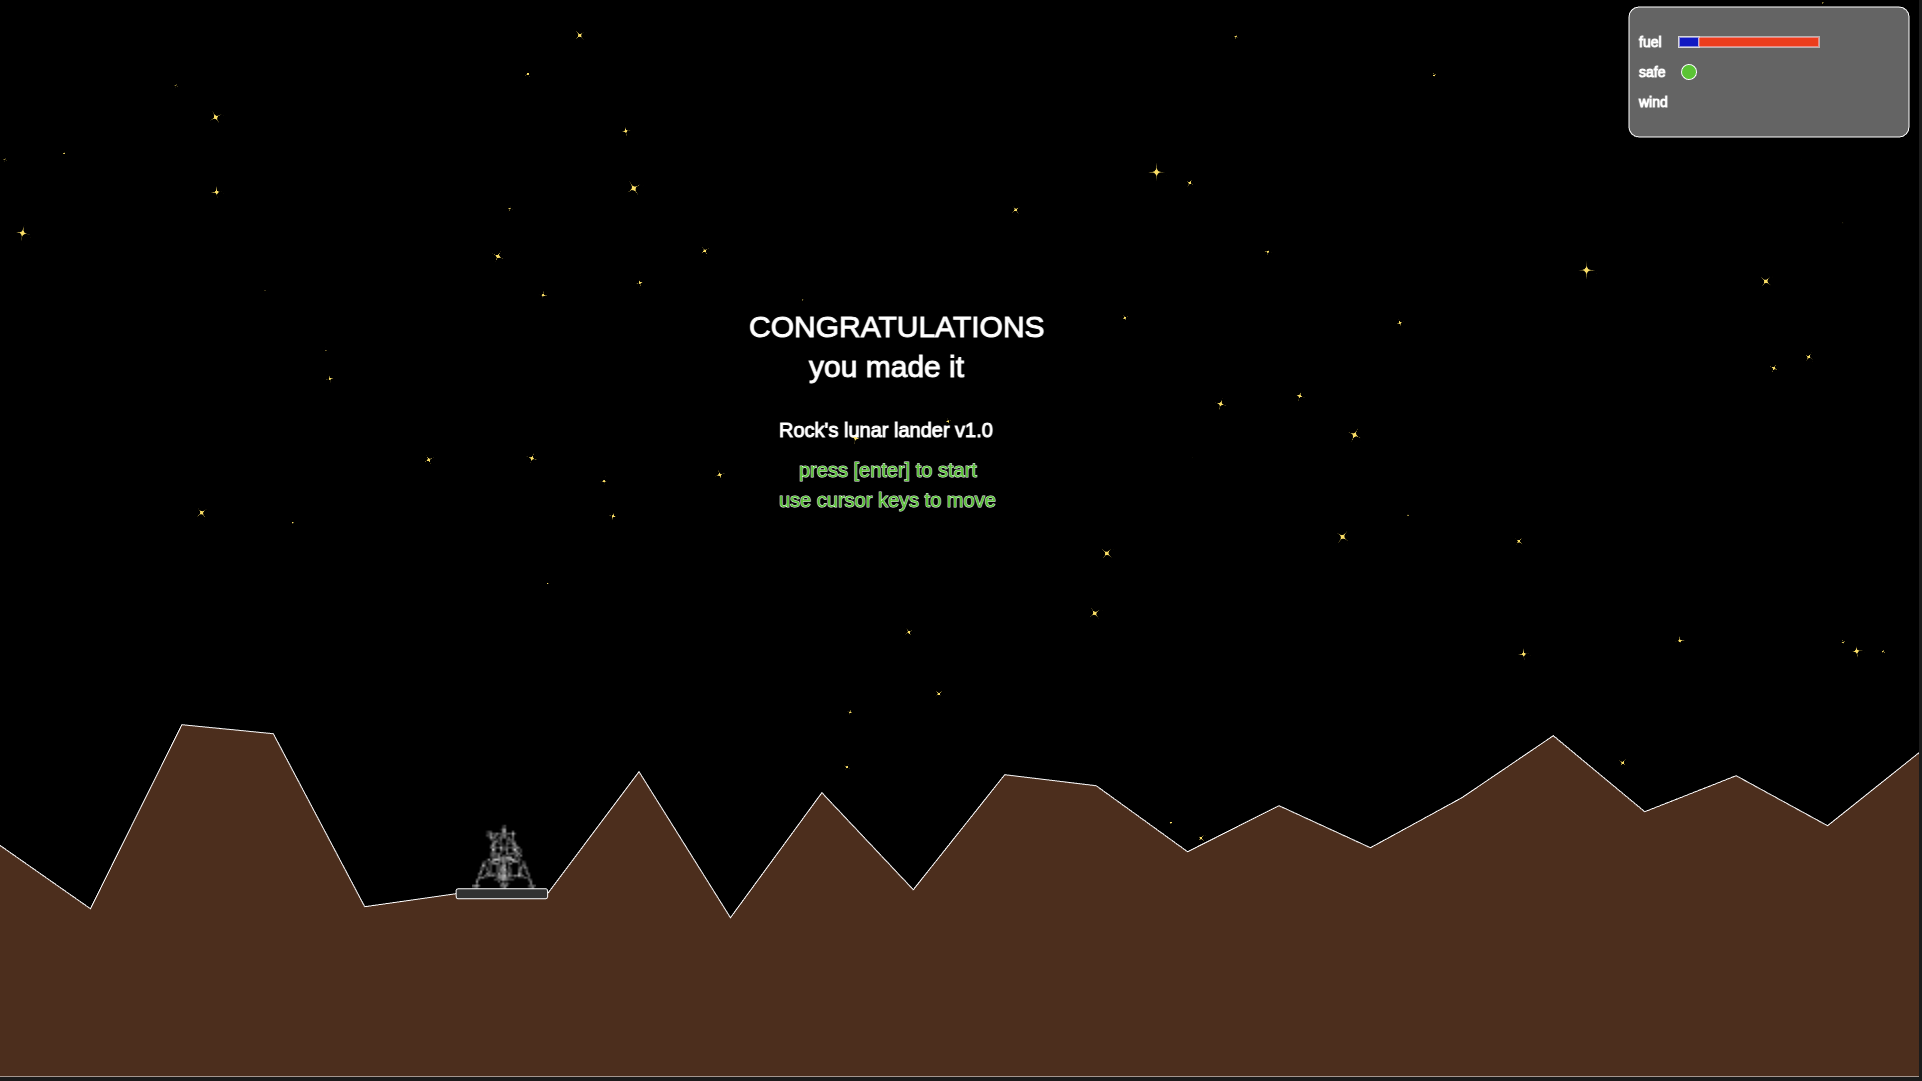
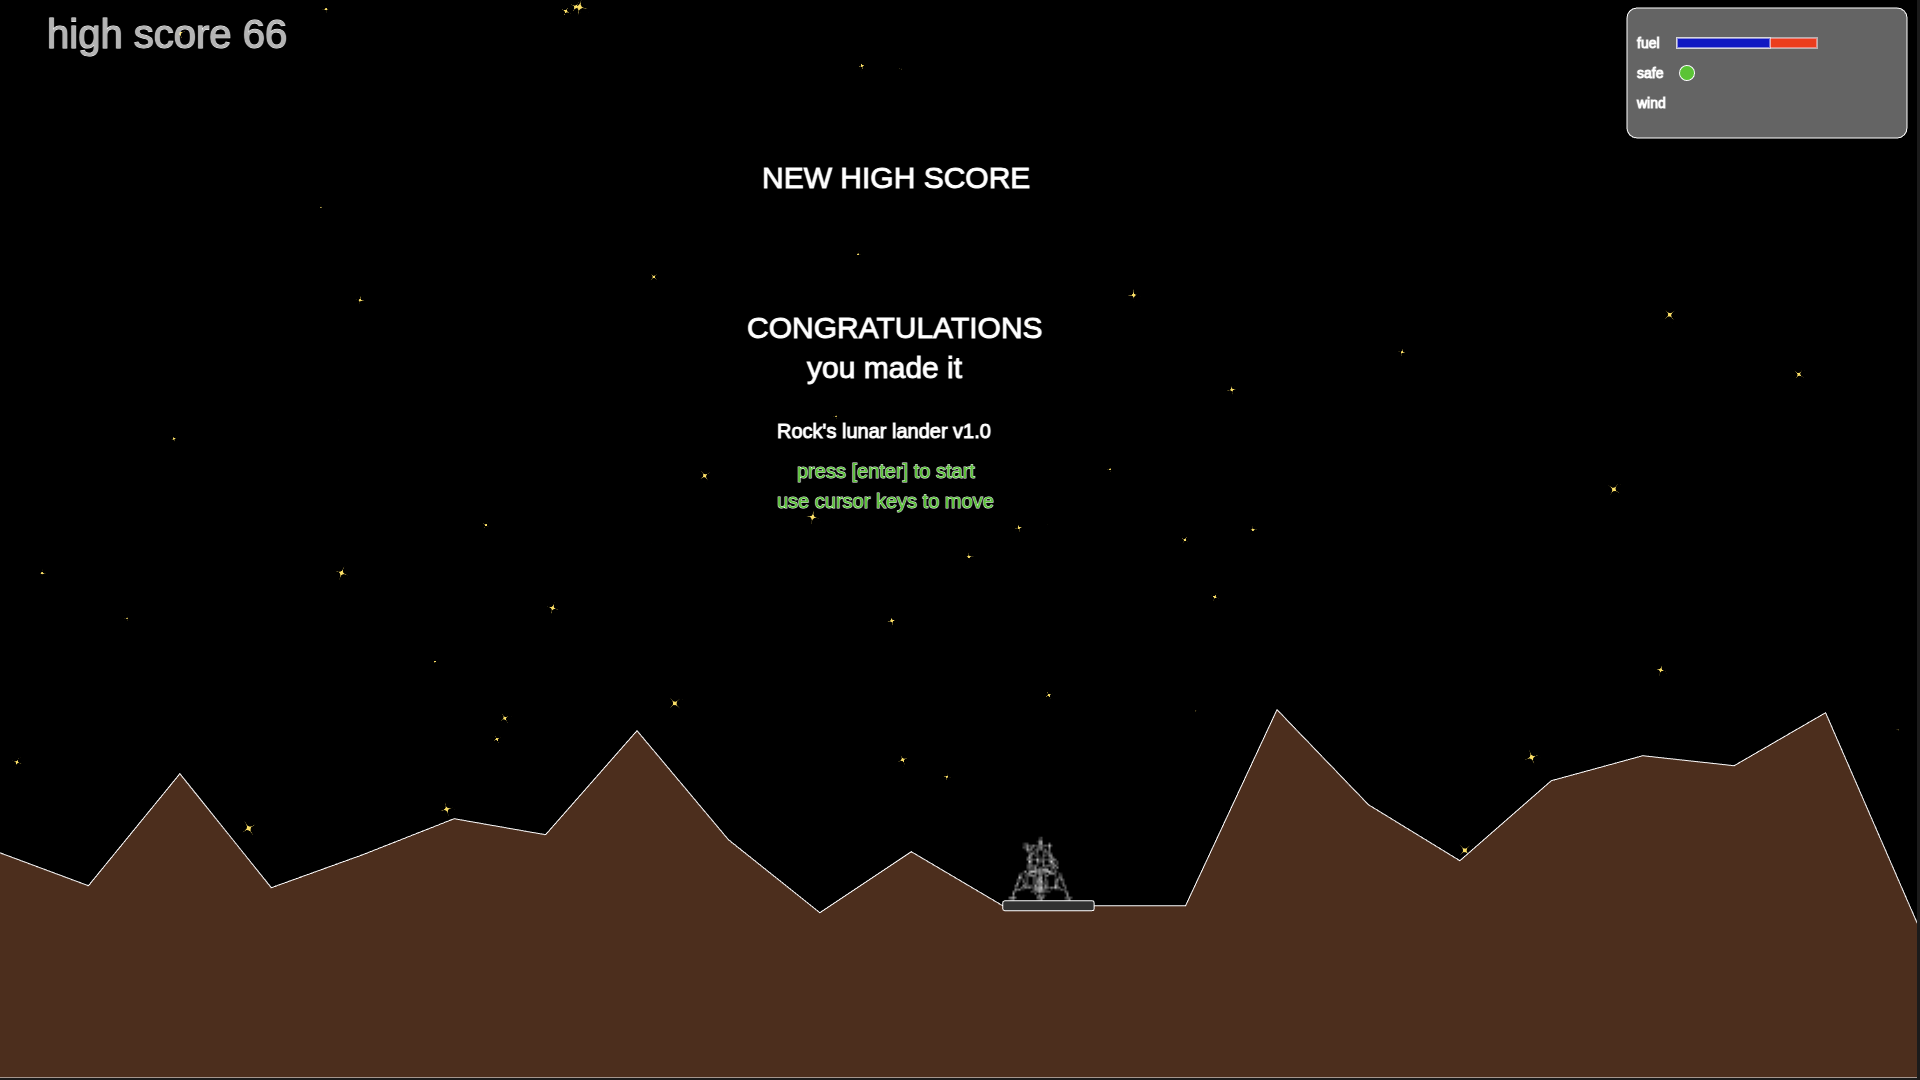
added high score

diff --git a/lunar-lander.js b/lunar-lander.js
@@ -27,6 +27,8 @@ const explosion_increment = 5;
 
 // game state;  one of {game over, running, landed}
 let game_state = "game over";
+let high_score = 0;
+let previous_high_score = 0;
 
 // landscape and stars
 const num_stars = 100;
@@ -300,6 +302,13 @@ function draw_landscape() {
   fill(50, 50, 50)
   const pos = get_platform_position()
   rect(pos.x + pos.w / 2, pos.y, pos.w, pos.h, 2)
+
+  // draw high score
+  if (game_state !== "running") {
+    textSize(40)
+    fill(180)
+    text("high score " + high_score, 50, 50)
+  }
 }
 
 /////////////////////////////////////////////////////////////////////////////////////
@@ -371,6 +380,7 @@ function game_logic() {
     reset_stars();
     reset_landscape();
     play_title_track();
+    previous_high_score = high_score;
     game_state = "running";
   }
 
@@ -382,6 +392,9 @@ function game_logic() {
 
     if (has_landed()) {
       game_state = "landed";
+      if (lander.fuel > high_score) {
+        high_score = Math.floor(lander.fuel)
+      }
       lander.r = 0;
       lander.dx = 0;
       lander.dy = 0;
@@ -496,6 +509,10 @@ function draw() {
     if (game_state === "landed") {
       text("CONGRATULATIONS", (w / 2) - 210, (h / 2) - 200)
       text("you made it", (w / 2) - 150, (h / 2) - 160)
+
+      if (high_score > previous_high_score) {
+        text("NEW HIGH SCORE", (w / 2) - 195, (h / 2) - 350)
+      }
 
       draw_lander();
       draw_control_panel();
